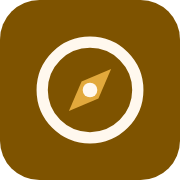
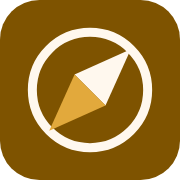
Kompas, Huiswerk en Arabisch opnieuw getekend
Drie voorbeelden terug, drie keer een betere compositie dan wat er stond. De
kompasnaald werd groot genoeg om de ring niet te laten winnen, het boek kreeg
een rug en tekstregels in plaats van twee losse vlekken, en de bāʾ werd een
echte letter in plaats van een kom met een punt eronder — die las als een
lachende mond.

Alle drie overgetekend als vectorpaden in de kleuren die er al lagen. De
aangeleverde bestanden waren opnieuw onbruikbaar: bitmap, gerasterde randen, een
verloop in de achtergrond waar een vlakke kleur hoort.

Twee dingen die onderweg misgingen en in de LEESMIJ zijn opgeschreven, want ze
gelden voor het volgende pictogram net zo goed.

De kompasnaald werd eerst te smal. De lengte klopte met het voorbeeld maar de
taille niet, en een ruit van veertig lang bij elf breed leest als een streepje.
Nu zestien breed.

En de bāʾ was twee keer stuk. Opgebouwd uit een buitencontour en een
binnencontour lopen de uiteinden dood: precies waar de letter zijn punt hoort te
hebben knijpen de twee krommen elkaar af. Nu is het één gestreken boog met een
vaste lijndikte, en dan is de tip net zo dik als de bodem.

Claude-Session: https://claude.ai/code/session_01LZ2875je6iRCo2oWuidPYS

Changed region(s): [[0.1389, 0.1389, 0.8611, 0.8611]]

diff --git a/public/iconen/LEESMIJ.md b/public/iconen/LEESMIJ.md
@@ -9,15 +9,15 @@ scherm van zestien pixels breed en ook voor wie nog niet vlot leest.
 | Bestand | App | Kleur | Merk |
 |---|---|---|---|
 | `hub.svg` | BennaHub | antraciet | vier gekleurde tegels: alle apps onder één dak |
-| `huiswerk.svg` | Huiswerk | groen | een opengeslagen boek |
+| `huiswerk.svg` | Huiswerk | groen | een opengeslagen boek met een rug en tekstregels |
 | `islam.svg` | Islam leren | groenblauw | maan en ster |
-| `arabisch.svg` | Arabisch | blauw | de letter bāʾ |
+| `arabisch.svg` | Arabisch | blauw | de letter bāʾ, met de ruitvormige punt eronder |
 | `code.svg` | Computers & Code | pruim | de haken van code |
 | `spelletjes.svg` | Spelletjes | terracotta | een dobbelsteen |
 | `geloofsstudie.svg` | Geloofsstudie | paars | een boekrol |
 | `koran.svg` | Koran uit je hoofd | indigo | een boek met leeslint |
 | `kalibratie.svg` | Energiebalans | leisteen | een balans met twee schalen |
-| `kompas.svg` | Kompas | oker | een kompasroos |
+| `kompas.svg` | Kompas | oker | een kompasroos met een tweekleurige naald |
 | `verbind.svg` | Verbind | oker | twee tekstballonnen die elkaar overlappen |
 | `podium.svg` | Podium | oker | een microfoon op een standaard |
 
@@ -50,3 +50,31 @@ dezelfde commit. Het script heeft Playwright nodig; die zit in deze omgeving al.
 De tekening blijft binnen de middelste tachtig procent van het vlak. Android
 knipt er bij een *maskable* pictogram een cirkel of een afgerond vierkant uit,
 en wat buiten die rand staat is het eerste wat sneuvelt.
+
+## Hertekenen, en wat een beeldgenerator wel en niet kan
+
+Vier van deze pictogrammen zijn in september 2026 opnieuw getekend naar een
+voorbeeld dat met een beeldgenerator gemaakt was. Dat werkte, maar niet zoals je
+zou denken.
+
+De **compositie** die eruit kwam was beter dan wat er stond: de twee ballonnen van
+Verbind overlapten netter, het boek van Huiswerk kreeg een rug en tekstregels, de
+bāʾ werd een echte letter in plaats van een kom met een punt, en de kompasnaald
+werd groot genoeg om de ring niet te laten winnen.
+
+Het **bestand** was elke keer onbruikbaar. Bitmap in plaats van vector, gerasterde
+randen, een verloop in de achtergrond waar een vlakke kleur hoort, en bij Verbind
+witte vegen die uit de generatie waren blijven staan. Zulke bestanden passen niet
+in deze set: ze schalen niet, ze wijken af in kleur, en op zestien pixels vallen
+ze uit elkaar.
+
+De werkwijze die wél klopt is dus: laat de generator de vorm bedenken, meet de
+verhoudingen eruit, en teken hem over als vectorpaden in de kleuren die hier al
+liggen. Dat kost een paar minuten per pictogram.
+
+Twee dingen die daarbij misgingen en het onthouden waard zijn. Een staartje van
+zeven eenheden aan een ballon van zesentwintig hoog leest als een hoekje en niet
+als een punt — de verhouding telt, niet de aanwezigheid. En een letter opbouwen
+uit twee losse contouren (buitenkant en binnenkant) gaat mis bij de uiteinden:
+die lopen dan dood. Eén gestreken boog met een vaste lijndikte houdt zijn dikte
+overal, ook bij de tip.
